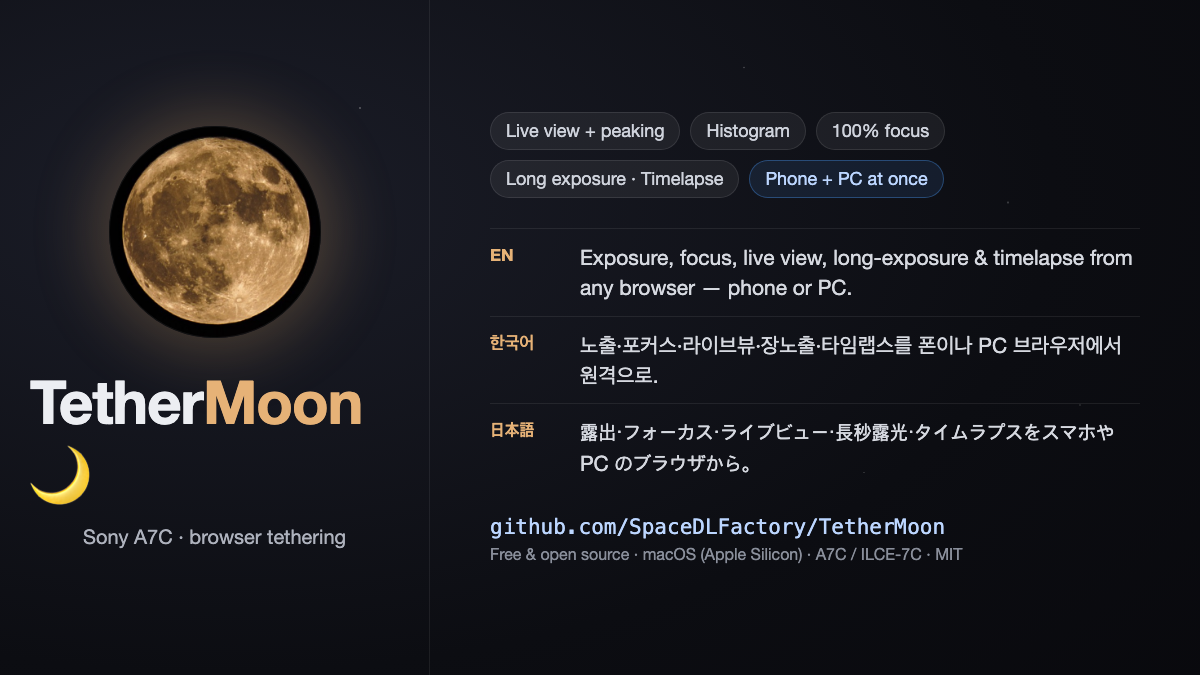
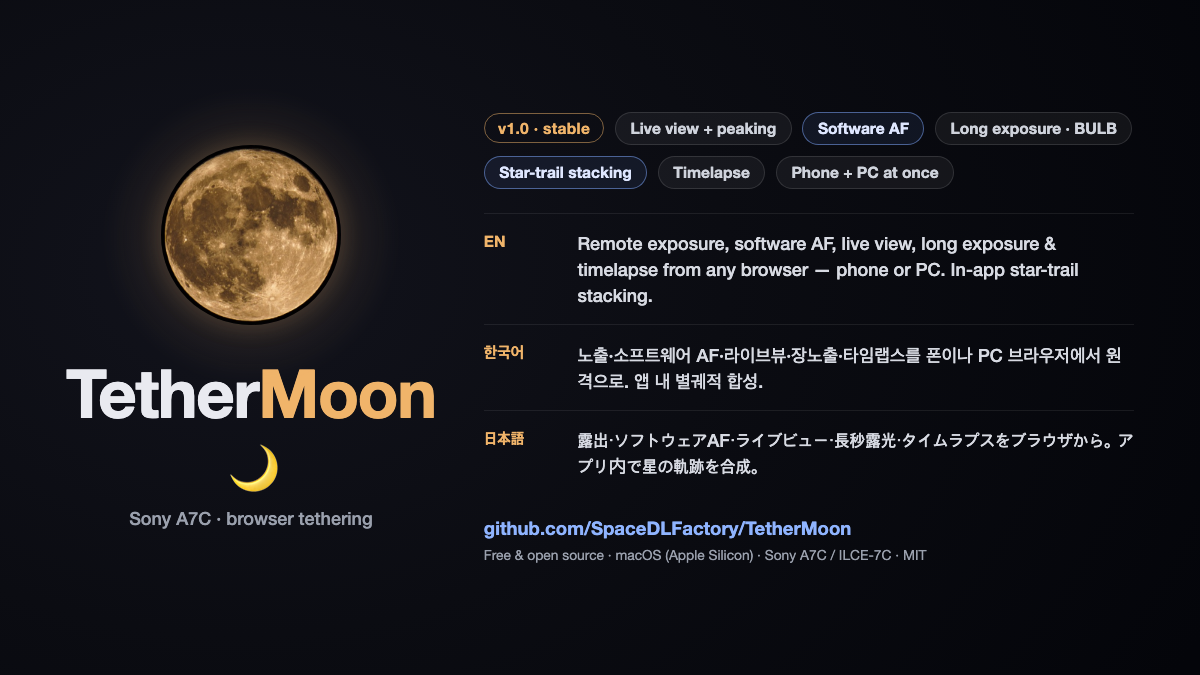
docs(gallery): rewrite SNS/OG card copy for v1.0 + add editable source
The cards were flat PNGs with pre-1.0 copy. Regenerate them from HTML
templates rendered via headless Chrome, and commit the source so future
copy edits are a one-liner (edit HTML, run render.sh).

- copy: add "Software AF" and "Star-trail stacking" chips, "v1.0 · stable"
  badge, and mention software AF + in-app star-trail stacking in the
  EN/ko/ja taglines
- gallery/cards/: card-portrait.html, card-wide.html, moon.png, render.sh
- sns-card.png (4:5), sns-wide.png (16:9), og-image.png (1200x675) regenerated

Claude-Session: https://claude.ai/code/session_01VFmQJjfDS3M5wSiMwu4Rzr

diff --git a/gallery/cards/card-portrait.html b/gallery/cards/card-portrait.html
@@ -1,0 +1,58 @@
+<!doctype html>
+<html lang="en"><head><meta charset="utf-8"><style>
+  :root{ --amber:#f0b46a; --ink:#e9eaf0; --mut:#9aa0ad; --bg0:#0b0c12; --bg1:#04050a; }
+  *{margin:0;padding:0;box-sizing:border-box}
+  html,body{width:1600px;height:2000px}
+  body{
+    font-family:-apple-system,"SF Pro Display","Helvetica Neue",Arial,sans-serif;
+    background:radial-gradient(120% 80% at 50% 22%, #12131c 0%, var(--bg0) 42%, var(--bg1) 100%);
+    color:var(--ink); overflow:hidden;
+    display:flex; flex-direction:column; align-items:center;
+    padding:6.5vw 7vw 5vw;
+  }
+  .moon-wrap{position:relative; margin-top:1vw}
+  .moon-wrap::before{content:"";position:absolute;inset:-38%;border-radius:50%;
+    background:radial-gradient(circle, rgba(240,180,106,.28) 0%, rgba(240,180,106,.10) 38%, transparent 66%);
+    filter:blur(6px)}
+  .moon{position:relative;width:23vw;height:23vw;border-radius:50%;object-fit:cover;
+    box-shadow:0 0 3vw rgba(240,180,106,.22)}
+  .word{margin-top:4vw;font-weight:800;font-size:8vw;letter-spacing:-.02em;line-height:1}
+  .word .m{color:var(--amber)} .word .c{font-size:6vw;margin-left:.4vw}
+  .tag{margin-top:1.8vw;font-size:2.15vw;color:var(--mut);font-weight:500}
+  .ver{margin-top:2.2vw;display:inline-block;font-size:1.7vw;font-weight:700;color:var(--amber);
+    border:1px solid rgba(240,180,106,.5);border-radius:999px;padding:.5vw 1.5vw;letter-spacing:.02em}
+  .chips{margin-top:3.6vw;display:flex;flex-wrap:wrap;justify-content:center;gap:1.1vw;max-width:82vw}
+  .chip{font-size:1.75vw;font-weight:600;color:#cfd3dc;background:rgba(255,255,255,.05);
+    border:1px solid rgba(255,255,255,.12);border-radius:999px;padding:.85vw 1.7vw}
+  .chip.hot{color:#dfe7ff;border-color:rgba(120,160,240,.55);background:rgba(90,130,220,.10)}
+  .rows{margin-top:5vw;width:100%;display:flex;flex-direction:column;gap:0}
+  .row{display:flex;gap:2.4vw;padding:2.2vw 0;border-top:1px solid rgba(255,255,255,.08)}
+  .row:last-child{border-bottom:1px solid rgba(255,255,255,.08)}
+  .lab{flex:0 0 8vw;font-size:1.7vw;font-weight:700;color:var(--amber);padding-top:.2vw}
+  .txt{font-size:2.05vw;line-height:1.5;color:#d7dae2;font-weight:500}
+  .foot{margin-top:auto;text-align:center}
+  .repo{font-size:2vw;font-weight:700;color:#8fb4ff}
+  .meta{margin-top:1vw;font-size:1.5vw;color:var(--mut)}
+</style></head><body>
+  <div class="moon-wrap"><img class="moon" src="moon.png" alt="moon"></div>
+  <div class="word">Tether<span class="m">Moon</span><span class="c">🌙</span></div>
+  <div class="tag">Sony A7C · browser tethering for astro &amp; night sky</div>
+  <div class="ver">v1.0 · stable</div>
+  <div class="chips">
+    <span class="chip">Live view + peaking</span>
+    <span class="chip hot">Software AF</span>
+    <span class="chip">Long exposure · BULB</span>
+    <span class="chip hot">Star-trail stacking</span>
+    <span class="chip">Timelapse</span>
+    <span class="chip">Phone + PC at once</span>
+  </div>
+  <div class="rows">
+    <div class="row"><div class="lab">EN</div><div class="txt">Remote exposure, software AF, live view, long exposure &amp; timelapse from any browser — phone or PC. In-app star-trail stacking. Free &amp; open source.</div></div>
+    <div class="row"><div class="lab">한국어</div><div class="txt">노출·소프트웨어 AF·라이브뷰·장노출·타임랩스를 폰이나 PC 브라우저에서 원격으로. 앱 내 별궤적 합성. 무료·오픈소스.</div></div>
+    <div class="row"><div class="lab">日本語</div><div class="txt">露出・ソフトウェアAF・ライブビュー・長秒露光・タイムラプスをブラウザから（スマホ / PC）。アプリ内で星の軌跡を合成。無料・オープンソース。</div></div>
+  </div>
+  <div class="foot">
+    <div class="repo">github.com/SpaceDLFactory/TetherMoon</div>
+    <div class="meta">macOS (Apple Silicon) · Sony A7C / ILCE-7C · MIT</div>
+  </div>
+</body></html>

diff --git a/gallery/cards/card-wide.html b/gallery/cards/card-wide.html
@@ -1,0 +1,62 @@
+<!doctype html>
+<html lang="en"><head><meta charset="utf-8"><style>
+  :root{ --amber:#f0b46a; --ink:#e9eaf0; --mut:#9aa0ad; --bg0:#0b0c12; --bg1:#04050a; }
+  *{margin:0;padding:0;box-sizing:border-box}
+  html,body{width:100vw;height:100vh}
+  body{
+    font-family:-apple-system,"SF Pro Display","Helvetica Neue",Arial,sans-serif;
+    background:radial-gradient(90% 120% at 20% 40%, #12131c 0%, var(--bg0) 45%, var(--bg1) 100%);
+    color:var(--ink); overflow:hidden; display:flex; align-items:center; gap:4vw;
+    padding:5vw 5.5vw;
+  }
+  .left{flex:0 0 32%;display:flex;flex-direction:column;align-items:center;text-align:center}
+  .moon-wrap{position:relative}
+  .moon-wrap::before{content:"";position:absolute;inset:-36%;border-radius:50%;
+    background:radial-gradient(circle, rgba(240,180,106,.28) 0%, rgba(240,180,106,.10) 38%, transparent 66%);
+    filter:blur(6px)}
+  .moon{position:relative;width:15vw;height:15vw;border-radius:50%;object-fit:cover;
+    box-shadow:0 0 2vw rgba(240,180,106,.22)}
+  .word{margin-top:2.6vw;font-weight:800;font-size:5.6vw;letter-spacing:-.02em;line-height:1}
+  .word .m{color:var(--amber)} .word .c{font-size:4vw;margin-left:.3vw}
+  .tag{margin-top:1.1vw;font-size:1.5vw;color:var(--mut);font-weight:500}
+  .right{flex:1;display:flex;flex-direction:column}
+  .top{display:flex;align-items:center;flex-wrap:wrap;gap:.9vw;margin-bottom:.6vw}
+  .ver{font-size:1.3vw;font-weight:700;color:var(--amber);border:1px solid rgba(240,180,106,.5);
+    border-radius:999px;padding:.4vw 1.1vw;letter-spacing:.02em}
+  .chip{font-size:1.3vw;font-weight:600;color:#cfd3dc;background:rgba(255,255,255,.05);
+    border:1px solid rgba(255,255,255,.12);border-radius:999px;padding:.55vw 1.2vw}
+  .chip.hot{color:#dfe7ff;border-color:rgba(120,160,240,.55);background:rgba(90,130,220,.10)}
+  .rows{display:flex;flex-direction:column;margin-top:1.4vw}
+  .row{display:flex;gap:1.8vw;padding:1.35vw 0;border-top:1px solid rgba(255,255,255,.08)}
+  .lab{flex:0 0 6vw;font-size:1.3vw;font-weight:700;color:var(--amber);padding-top:.15vw}
+  .txt{font-size:1.5vw;line-height:1.45;color:#d7dae2;font-weight:500}
+  .foot{margin-top:1.8vw}
+  .repo{font-size:1.55vw;font-weight:700;color:#8fb4ff}
+  .meta{margin-top:.6vw;font-size:1.15vw;color:var(--mut)}
+</style></head><body>
+  <div class="left">
+    <div class="moon-wrap"><img class="moon" src="moon.png" alt="moon"></div>
+    <div class="word">Tether<span class="m">Moon</span><span class="c">🌙</span></div>
+    <div class="tag">Sony A7C · browser tethering</div>
+  </div>
+  <div class="right">
+    <div class="top">
+      <span class="ver">v1.0 · stable</span>
+      <span class="chip">Live view + peaking</span>
+      <span class="chip hot">Software AF</span>
+      <span class="chip">Long exposure · BULB</span>
+      <span class="chip hot">Star-trail stacking</span>
+      <span class="chip">Timelapse</span>
+      <span class="chip">Phone + PC at once</span>
+    </div>
+    <div class="rows">
+      <div class="row"><div class="lab">EN</div><div class="txt">Remote exposure, software AF, live view, long exposure &amp; timelapse from any browser — phone or PC. In-app star-trail stacking.</div></div>
+      <div class="row"><div class="lab">한국어</div><div class="txt">노출·소프트웨어 AF·라이브뷰·장노출·타임랩스를 폰이나 PC 브라우저에서 원격으로. 앱 내 별궤적 합성.</div></div>
+      <div class="row"><div class="lab">日本語</div><div class="txt">露出・ソフトウェアAF・ライブビュー・長秒露光・タイムラプスをブラウザから。アプリ内で星の軌跡を合成。</div></div>
+    </div>
+    <div class="foot">
+      <div class="repo">github.com/SpaceDLFactory/TetherMoon</div>
+      <div class="meta">Free &amp; open source · macOS (Apple Silicon) · Sony A7C / ILCE-7C · MIT</div>
+    </div>
+  </div>
+</body></html>
